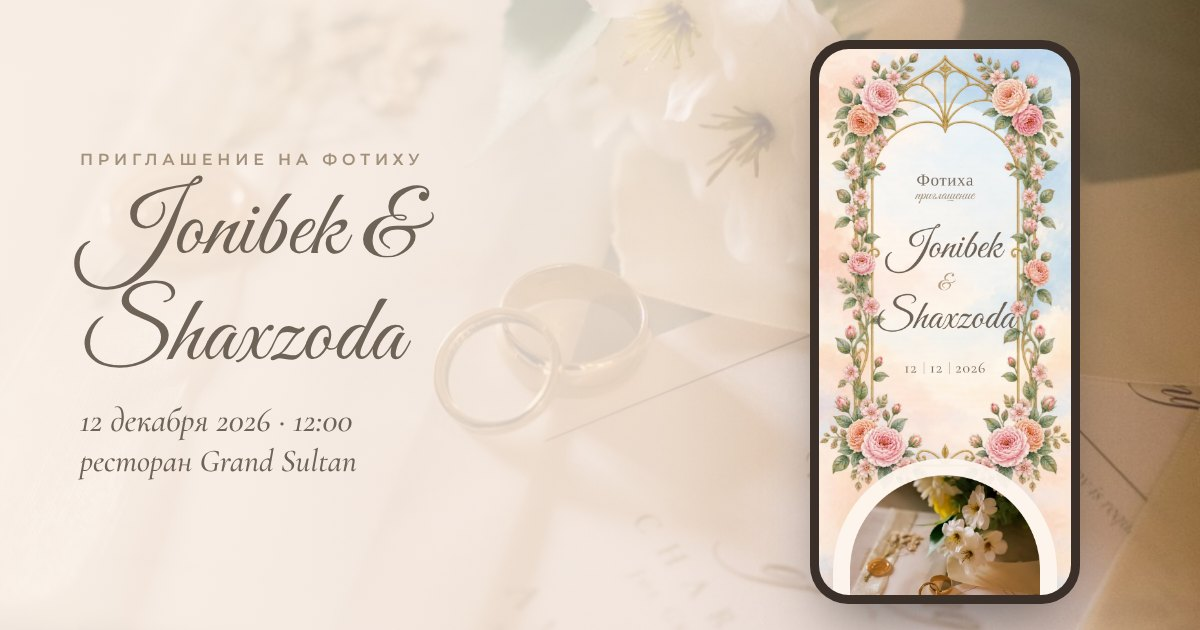
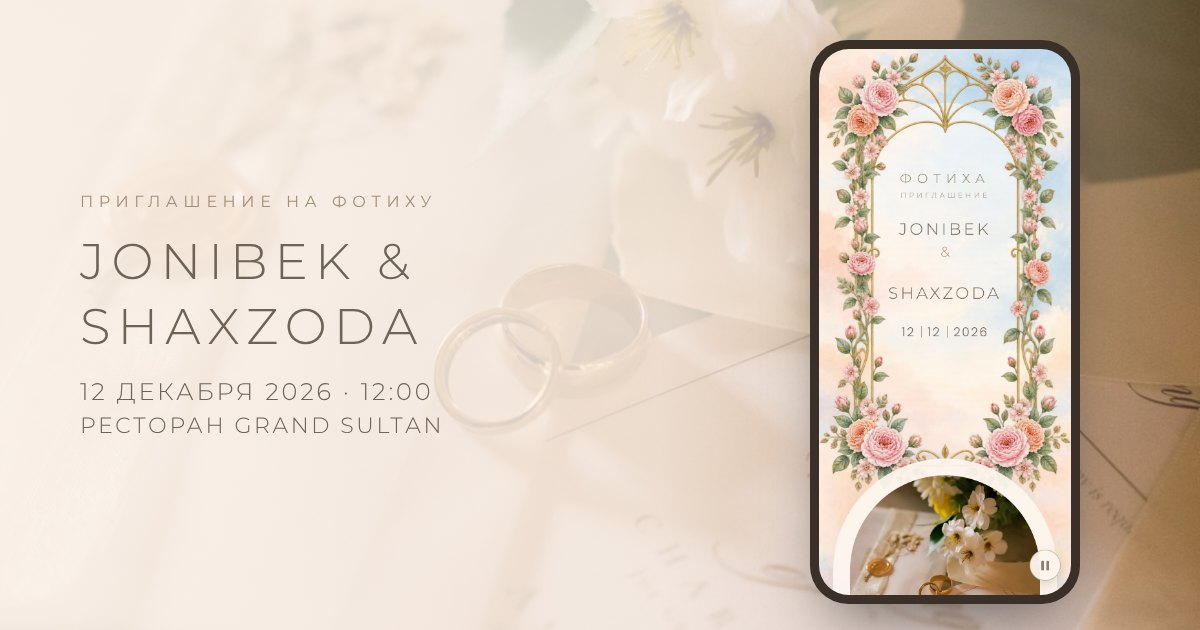
Jonibek & Shaxzoda: Montserrat Light caps headings
Claude-Session: https://claude.ai/code/session_01U8zVWJR57C4wm8tp72QHw9

diff --git a/jonibek-shaxzoda/index.html b/jonibek-shaxzoda/index.html
@@ -110,6 +110,20 @@ body{font:400 18px/1.6 'CG','Cormorant Garamond',serif;color:var(--ink);-webkit-
 #start{position:fixed;inset:0;z-index:60;display:flex;align-items:flex-end;justify-content:center;padding-bottom:12vh;background:linear-gradient(transparent 60%,rgba(120,90,60,.25));cursor:pointer;transition:opacity .8s}
 #start span{font:italic 500 20px 'CG','Cormorant Garamond';color:#fff;background:rgba(122,109,95,.75);padding:10px 26px;border-radius:30px;letter-spacing:.04em}
 #start.gone{opacity:0;pointer-events:none}
+
+/* headers: Montserrat Light caps */
+.script,.hero .k,.hero .nm,.hero .amp,.dear h2,.mono,.sec h2,.ev h3,.oval h2,.oval h3{font-family:'Montserrat',sans-serif!important;font-weight:300!important;text-transform:uppercase;letter-spacing:.2em}
+.hero .k{font-size:20px!important;line-height:1.3!important;letter-spacing:.42em!important;color:#8f7c66!important}
+.hero .k2{margin-top:6px!important}
+.hero .nm{font-size:25px!important;line-height:1.25!important;letter-spacing:.16em!important;margin-top:14%!important}
+.hero .amp{font-size:22px!important;letter-spacing:0!important;margin:6px 0!important}
+.dear h2{font-size:21px!important;line-height:1.5!important;letter-spacing:.2em!important}
+.mono{font-size:22px!important;letter-spacing:.24em!important;text-transform:none!important}
+.sec h2{font-size:22px!important;line-height:1.5!important;letter-spacing:.22em!important}
+.ev h3{font-size:15px!important;line-height:1.4!important;letter-spacing:.2em!important;margin-top:10px!important;font-weight:400!important}
+.oval h2{font-size:21px!important;line-height:1.5!important;letter-spacing:.2em!important}
+.oval h3{font-size:14px!important;letter-spacing:.24em!important;font-weight:400!important}
+.foot .script{font-size:20px!important;line-height:1.6!important;letter-spacing:.2em!important}
 </style></head>
 <body>
 <canvas id="petals"></canvas>
